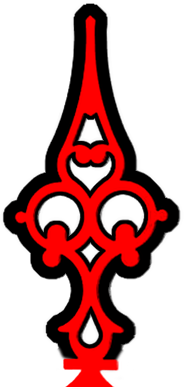
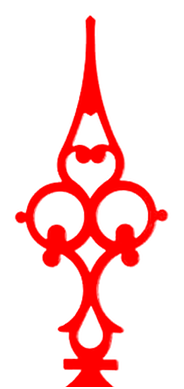
hour_minute_overlap, seems to be working

Changed region(s): [[0.0, 0.0, 1.0, 0.9254]]

diff --git a/config_watch.py b/config_watch.py
@@ -136,37 +136,37 @@ watches = {
 #
 
 hands = {
-    'a' : [('hour', ('a_hour_hand.png', 't', False, (90, 410), 0.12), None),
-           ('minute', ('a_minute_hand.png', 't', True, (49, 565), 0.12), None),
-           ('second', ('a_second_hand.png', 2, False, (37, 37), 0.12),
+    'a' : [('hour', ('a_hour_hand', 't', False, (90, 410), 0.12), None),
+           ('minute', ('a_minute_hand', 't', True, (49, 565), 0.12), None),
+           ('second', ('a_second_hand', 2, False, (37, 37), 0.12),
             [(2, [(0, -5), (0, -70)])]),
            ],
-    'b' : [('hour', ('b_hour_hand.png', 't', False, (33, 211), 0.27), None),
-           ('minute', ('b_minute_hand.png', 't', False, (24, 292), 0.27), None),
-           ('second', ('b_second_hand.png', 2, False, (32, 21), 0.27),
+    'b' : [('hour', ('b_hour_hand', 't', False, (33, 211), 0.27), None),
+           ('minute', ('b_minute_hand', 't', False, (24, 292), 0.27), None),
+           ('second', ('b_second_hand', 2, False, (32, 21), 0.27),
             [(2, [(0, -5), (0, -75)]),
              ]),
            ],
-    'c' : [('hour', ('c_hour_hand.png', 't%', False, (59, 434), 0.14), None),
-           ('minute', ('c_minute_hand.png', 't%', False, (38, 584), 0.14), None),
-           ('second', ('c_chrono1_hand.png', 2, False, (32, -27), 0.14),
+    'c' : [('hour', ('c_hour_hand', 't%', False, (59, 434), 0.14), None),
+           ('minute', ('c_minute_hand', 't%', False, (38, 584), 0.14), None),
+           ('second', ('c_chrono1_hand', 2, False, (32, -27), 0.14),
             [(2, [(0, -2), (0, -26)]),
              ]),
-           ('chrono_minute', ('c_chrono2_hand.png', 2, False, (37, 195), 0.14), None),
-           ('chrono_second', ('c_second_hand.png', 1, False, (41, -29), 0.14),
+           ('chrono_minute', ('c_chrono2_hand', 2, False, (37, 195), 0.14), None),
+           ('chrono_second', ('c_second_hand', 1, False, (41, -29), 0.14),
             [(1, [(0, -4), (0, -88)]),
              ]),
-           ('chrono_tenth', ('c_chrono2_hand.png', 2, False, (37, 195), 0.14), None),
+           ('chrono_tenth', ('c_chrono2_hand', 2, False, (37, 195), 0.14), None),
            ],
-    'd' : [('hour', ('d_hour_hand.png', 't', False, (24, 193), 0.24), None),
-           ('minute', ('d_minute_hand.png', 't', False, (27, 267), 0.24), None),
-           ('second', ('d_second_hand.png', 1, False, (14, -8), 0.24),
+    'd' : [('hour', ('d_hour_hand', 't', False, (24, 193), 0.24), None),
+           ('minute', ('d_minute_hand', 't', False, (27, 267), 0.24), None),
+           ('second', ('d_second_hand', 1, False, (14, -8), 0.24),
             [(1, [(0, -3), (0, -64)]),
              ]),
            ],
-    'e' : [('hour', ('e_hour_hand.png', 't%', False, (28, 99), 0.53), None),
-           ('minute', ('e_minute_hand.png', 't%', False, (22, 142), 0.53), None),
-           ('second', ('e_second_hand.png', 't%', False, (18, 269), 0.24), None),
+    'e' : [('hour', ('e_hour_hand', 't%', False, (28, 99), 0.53), None),
+           ('minute', ('e_minute_hand', 't%', False, (22, 142), 0.53), None),
+           ('second', ('e_second_hand', 't%', False, (18, 269), 0.24), None),
            ],
     }
 
@@ -348,6 +348,8 @@ thresholdMask = [0] + [255] * 255
 threshold1Bit = [0] * 128 + [255] * 128
 threshold2Bit = [0] * 64 + [85] * 64 + [170] * 64 + [255] * 64
 
+trivialImage = PIL.Image.new('L', (1, 1), 255)
+
 # Attempt to determine the directory in which we're operating.
 rootDir = os.path.dirname(__file__) or '.'
 resourcesDir = os.path.join(rootDir, 'resources')
@@ -528,7 +530,7 @@ def getResourceCacheSize(hand):
 def getMaskResourceCacheSize(hand):
     return resourceCacheSize.get(hand, [0, 0])[1]
 
-def makeBitmapHands(generatedTable, generatedDefs, useRle, hand, sourceFilename, colorMode, asymmetric, pivot, scale):
+def makeBitmapHands(generatedTable, generatedDefs, useRle, hand, sourceBasename, colorMode, asymmetric, pivot, scale):
     resourceStr = ''
     maskResourceStr = ''
 
@@ -537,16 +539,6 @@ def makeBitmapHands(generatedTable, generatedDefs, useRle, hand, sourceFilename,
       "name": "%(defName)s",
       "file": "%(targetFilename)s",
       "type": "%(ptype)s"
-    },"""
-
-    maskResourceEntry = """
-    {
-      "name": "%(defName)s",
-      "file": "%(targetFilename)s",
-      "type": "%(ptype)s",
-      "targetPlatforms": [
-        "aplite"
-      ]
     },"""
 
     handLookupEntry = """  { %(cx)s, %(cy)s },  // %(symbolName)s"""
@@ -558,11 +550,10 @@ def makeBitmapHands(generatedTable, generatedDefs, useRle, hand, sourceFilename,
 
     paintChannel, useTransparency, dither = parseColorMode(colorMode)
 
-    sourcePathname = '%s/clock_hands/%s' % (resourcesDir, sourceFilename)
+    sourcePathname = '%s/clock_hands/%s.png' % (resourcesDir, sourceBasename)
     source = PIL.Image.open(sourcePathname)
 
-    basename, ext = os.path.splitext(sourcePathname)
-    source1Pathname = basename + '~bw' + ext
+    source1Pathname = '%s/clock_hands/%s~bw.png' % (resourcesDir, sourceBasename)
     if os.path.exists(source1Pathname):
         # If there's an explicit ~bw source file, use it for the 1-bit
         # version.
@@ -577,8 +568,8 @@ def makeBitmapHands(generatedTable, generatedDefs, useRle, hand, sourceFilename,
     r, g, b, source1Mask = source1.convert('RGBA').split()
     source1 = PIL.Image.merge('RGB', [r, g, b])
 
-    # Ensure that the source image is black anywhere the
-    # mask is black.
+    # Ensure that the source image is black anywhere its alpha channel
+    # is black.
     black = PIL.Image.new('L', source.size, 0)
     r, g, b = source.split()
     mask = sourceMask.point(thresholdMask)
@@ -595,6 +586,21 @@ def makeBitmapHands(generatedTable, generatedDefs, useRle, hand, sourceFilename,
     b = PIL.Image.composite(b, black, mask)
     source1 = PIL.Image.merge('RGB', [r, g, b])
 
+    # Now check for an explicit mask image.  In the basalt case, an
+    # explicit (separate) mask image is maintained in addition to the
+    # implicit (alpha channel) mask above.
+    sourceMaskPathname = '%s/clock_hands/%s_mask.png' % (resourcesDir, sourceBasename)
+    sourceMaskExplicit = None
+    if os.path.exists(sourceMaskPathname):
+        sourceMaskExplicit = PIL.Image.open(sourceMaskPathname).convert('RGBA')
+
+    # In the aplite case, we don't need to make a distinction between
+    # the explicit and implicit masks.  An explicit mask completely
+    # replaces the implicit mask.
+    source1MaskPathname = '%s/clock_hands/%s_mask~bw.png' % (resourcesDir, sourceBasename)
+    if os.path.exists(source1MaskPathname):
+        source1Mask = PIL.Image.open(source1MaskPathname).convert('L')
+
     # Center the source image on its pivot, and pad it with black.
     border = (pivot[0], pivot[1], source.size[0] - pivot[0], source.size[1] - pivot[1])
     size = (max(border[0], border[2]) * 2, max(border[1], border[3]) * 2)
@@ -608,6 +614,10 @@ def makeBitmapHands(generatedTable, generatedDefs, useRle, hand, sourceFilename,
     largeMask.paste(sourceMask, (center[0] - pivot[0], center[1] - pivot[1]))
     large1Mask = PIL.Image.new('L', size, 0)
     large1Mask.paste(source1Mask, (center[0] - pivot[0], center[1] - pivot[1]))
+
+    if sourceMaskExplicit:
+        largeMaskExplicit = PIL.Image.new('RGBA', size, (0, 0, 0, 0))
+        largeMaskExplicit.paste(sourceMaskExplicit, (center[0] - pivot[0], center[1] - pivot[1]))
 
     numStepsHand = getNumSteps(hand)
     for i in range(numStepsHand):
@@ -712,11 +722,21 @@ def makeBitmapHands(generatedTable, generatedDefs, useRle, hand, sourceFilename,
             # It's important to take the crop from the alpha mask, not
             # from the color.
             cropbox = pm2.getbbox()
+            p1 = p1.crop(cropbox)
+            p2 = p2.crop(cropbox)
             pm1 = pm1.crop(cropbox)
             pm2 = pm2.crop(cropbox)
 
-            p1 = p1.crop(cropbox)
-            p2 = p2.crop(cropbox)
+            if sourceMaskExplicit:
+                pme = largeMaskExplicit.rotate(-angle, PIL.Image.BICUBIC, True)
+                pme = pme.resize(scaledSize, PIL.Image.ANTIALIAS)
+                r, g, b, a = pme.split()
+                r = r.point(threshold2Bit).convert('L')
+                g = g.point(threshold2Bit).convert('L')
+                b = b.point(threshold2Bit).convert('L')
+                a = a.point(threshold2Bit).convert('L')
+                pme2 = PIL.Image.merge('RGBA', [r, g, b, a])
+                pme2 = pme2.crop(cropbox)
 
             if not useTransparency:
                 # Force the foreground pixels to the appropriate color
@@ -753,6 +773,10 @@ def makeBitmapHands(generatedTable, generatedDefs, useRle, hand, sourceFilename,
                 pt = PIL.Image.new('L', (w, pm2.size[1]), 0)
                 pt.paste(pm2, (0, 0))
                 pm2 = pt
+                if sourceMaskExplicit:
+                    pt = PIL.Image.new('RGBA', (w, pme2.size[1]), (0, 0, 0, 0))
+                    pt.paste(pme2, (0, 0))
+                    pme2 = pt
 
             # In the Basalt case, apply the mask as the alpha channel.
             r, g, b = p2.split()
@@ -763,16 +787,29 @@ def makeBitmapHands(generatedTable, generatedDefs, useRle, hand, sourceFilename,
             p2 = p2.convert("P", palette = PIL.Image.ADAPTIVE, colors = 16)
 
             if not useTransparency:
-                # In the Aplite non-transparency case, the mask
-                # becomes the image itself.
+                # In the non-transparency case, the aplite mask is the
+                # aplite image we actually write out.
                 p1 = pm1
             else:
-                # In the Aplite transparency case, we need to load the mask
+                # In the transparency case, we need to write the mask
                 # image separately.
                 targetMaskFilename = 'build/flat_%s_%s_%s_mask.png' % (handStyle, hand, i)
-                pm1.save('%s/%s' % (resourcesDir, targetMaskFilename))
+                targetMask1Filename = 'build/flat_%s_%s_%s_mask~bw.png' % (handStyle, hand, i)
+                if sourceMaskExplicit:
+                    # An explicit basalt mask.
+                    pme2 = pme2.convert("P", palette = PIL.Image.ADAPTIVE, colors = 16)
+                    pme2.save('%s/%s' % (resourcesDir, targetMaskFilename))
+                else:
+                    # With only an implicit basalt mask, we won't be
+                    # using the mask image in basalt, so save a
+                    # trivial image.
+                    trivialImage.save('%s/%s' % (resourcesDir, targetMaskFilename))
+
+                # Save the aplite mask.
+                pm1.save('%s/%s' % (resourcesDir, targetMask1Filename))
+
                 rleFilename, ptype = make_rle(targetMaskFilename, useRle = useRle)
-                maskResourceStr += maskResourceEntry % {
+                maskResourceStr += resourceEntry % {
                     'defName' : symbolMaskName,
                     'targetFilename' : rleFilename,
                     'ptype' : ptype,
@@ -832,7 +869,7 @@ def makeHands(generatedTable, generatedDefs):
 
     handDefEntry = """struct HandDef %(hand)s_hand_def = {
     NUM_STEPS_%(handUpper)s,
-    %(resourceId)s, APLITE_RESOURCE(%(resourceMaskId)s),
+    %(resourceId)s, %(resourceMaskId)s,
     %(placeX)s, %(placeY)s,
     %(useRle)s,
     %(bitmapCenters)s,

diff --git a/src/wright.c b/src/wright.c
@@ -512,8 +512,8 @@ void draw_vector_hand(struct HandCache *hand_cache, struct HandDef *hand_def, in
 
 // Clears the mask given hand on the face, using the bitmap
 // structures, if the mask is in use.  This must be called before
-// draw_bitmap_hand().
-void draw_bitmap_hand_mask(struct HandCache *hand_cache, struct ResourceCache *resource_cache, size_t resource_cache_size, struct HandDef *hand_def, int hand_index, GContext *ctx) {
+// draw_bitmap_hand_fg().
+void draw_bitmap_hand_mask(struct HandCache *hand_cache, struct ResourceCache *resource_cache, size_t resource_cache_size, struct HandDef *hand_def, int hand_index, bool no_basalt_mask, GContext *ctx) {
   struct BitmapHandTableRow *hand = &hand_def->bitmap_table[hand_index];
   int bitmap_index = hand->bitmap_index;
   struct BitmapHandCenterRow *lookup = &hand_def->bitmap_centers[bitmap_index];
@@ -524,10 +524,10 @@ void draw_bitmap_hand_mask(struct HandCache *hand_cache, struct ResourceCache *r
 #ifdef PBL_PLATFORM_APLITE
   if (hand_def->resource_id == hand_def->resource_mask_id)
 #else
-  if (true)  // On Basalt, we always draw without the mask.
+  if (no_basalt_mask || hand_def->resource_id == hand_def->resource_mask_id)
 #endif  // PBL_PLATFORM_APLITE
   {
-    // Do nothing here.
+    // The draw-without-a-mask case.  Do nothing here.
   } else {
     // The hand has a mask, so use it to draw the hand opaquely.
     if (hand_cache->image.bitmap == NULL) {
@@ -543,6 +543,9 @@ void draw_bitmap_hand_mask(struct HandCache *hand_cache, struct ResourceCache *r
 	trigger_memory_panic(__LINE__);
         return;
       }
+      remap_colors_clock(&hand_cache->image);
+      remap_colors_clock(&hand_cache->mask);
+
       hand_cache->cx = lookup->cx;
       hand_cache->cy = lookup->cy;
     
@@ -572,18 +575,17 @@ void draw_bitmap_hand_mask(struct HandCache *hand_cache, struct ResourceCache *r
 
 // Draws a given hand on the face, using the bitmap structures.  You
 // must have already called draw_bitmap_hand_mask().
-void draw_bitmap_hand(struct HandCache *hand_cache, struct ResourceCache *resource_cache, size_t resource_cache_size, struct HandDef *hand_def, int hand_index, GContext *ctx) {
+void draw_bitmap_hand_fg(struct HandCache *hand_cache, struct ResourceCache *resource_cache, size_t resource_cache_size, struct HandDef *hand_def, int hand_index, bool no_basalt_mask, GContext *ctx) {
   struct BitmapHandTableRow *hand = &hand_def->bitmap_table[hand_index];
   int bitmap_index = hand->bitmap_index;
   struct BitmapHandCenterRow *lookup = &hand_def->bitmap_centers[bitmap_index];
 
   int hand_resource_id = hand_def->resource_id + bitmap_index;
-  int hand_resource_mask_id = hand_def->resource_mask_id + bitmap_index;
 
 #ifdef PBL_PLATFORM_APLITE
   if (hand_def->resource_id == hand_def->resource_mask_id)
 #else
-  if (true)  // On Basalt, we always draw without the mask.
+  if (no_basalt_mask || hand_def->resource_id == hand_def->resource_mask_id)
 #endif  // PBL_PLATFORM_APLITE
   {
     // The hand does not have a mask.  Draw the hand on top of the scene.
@@ -654,7 +656,7 @@ void draw_bitmap_hand(struct HandCache *hand_cache, struct ResourceCache *resour
 
 // In general, prepares a hand for being drawn.  Specifically, this
 // clears the background behind a hand, if necessary.
-void draw_hand_mask(struct HandCache *hand_cache, struct ResourceCache *resource_cache, size_t resource_cache_size, struct HandDef *hand_def, int hand_index, GContext *ctx) {
+void draw_hand_mask(struct HandCache *hand_cache, struct ResourceCache *resource_cache, size_t resource_cache_size, struct HandDef *hand_def, int hand_index, bool no_basalt_mask, GContext *ctx) {
   if (hand_def->bitmap_table != NULL) {
     if (hand_cache->bitmap_hand_index != hand_index) {
       // Force a new bitmap.
@@ -667,26 +669,26 @@ void draw_hand_mask(struct HandCache *hand_cache, struct ResourceCache *resource
       hand_cache->bitmap_hand_index = hand_index;
     }
 
-    draw_bitmap_hand_mask(hand_cache, resource_cache, resource_cache_size, hand_def, hand_index, ctx);
+    draw_bitmap_hand_mask(hand_cache, resource_cache, resource_cache_size, hand_def, hand_index, no_basalt_mask, ctx);
   }
 }
 
 // Draws a given hand on the face, after draw_hand_mask(), using the
 // vector and/or bitmap structures.  A given hand may be represented
 // by a bitmap or a vector, or a combination of both.
-void draw_hand_fg(struct HandCache *hand_cache, struct ResourceCache *resource_cache, size_t resource_cache_size, struct HandDef *hand_def, int hand_index, GContext *ctx) {
+void draw_hand_fg(struct HandCache *hand_cache, struct ResourceCache *resource_cache, size_t resource_cache_size, struct HandDef *hand_def, int hand_index, bool no_basalt_mask, GContext *ctx) {
   if (hand_def->vector_hand != NULL) {
     draw_vector_hand(hand_cache, hand_def, hand_index, ctx);
   }
 
   if (hand_def->bitmap_table != NULL) {
-    draw_bitmap_hand(hand_cache, resource_cache, resource_cache_size, hand_def, hand_index, ctx);
+    draw_bitmap_hand_fg(hand_cache, resource_cache, resource_cache_size, hand_def, hand_index, no_basalt_mask, ctx);
   }
 }
 
 void draw_hand(struct HandCache *hand_cache, struct ResourceCache *resource_cache, size_t resource_cache_size, struct HandDef *hand_def, int hand_index, GContext *ctx) {
-  draw_hand_mask(hand_cache, resource_cache, resource_cache_size, hand_def, hand_index, ctx);
-  draw_hand_fg(hand_cache, resource_cache, resource_cache_size, hand_def, hand_index, ctx);
+  draw_hand_mask(hand_cache, resource_cache, resource_cache_size, hand_def, hand_index, true, ctx);
+  draw_hand_fg(hand_cache, resource_cache, resource_cache_size, hand_def, hand_index, true, ctx);
 }
 
 // Applies the appropriate Basalt color-remapping according to the
@@ -767,11 +769,11 @@ void hour_minute_layer_update_callback(Layer *me, GContext *ctx) {
 #ifdef HOUR_MINUTE_OVERLAP
   // Draw the hour and minute hands overlapping, so they share a
   // common mask.
-  draw_hand_mask(&hour_cache, hour_resource_cache, hour_resource_cache_size, &hour_hand_def, current_placement.hour_hand_index, ctx);
-  draw_hand_mask(&minute_cache, minute_resource_cache, minute_resource_cache_size, &minute_hand_def, current_placement.minute_hand_index, ctx);
+  draw_hand_mask(&hour_cache, hour_resource_cache, hour_resource_cache_size, &hour_hand_def, current_placement.hour_hand_index, false, ctx);
+  draw_hand_mask(&minute_cache, minute_resource_cache, minute_resource_cache_size, &minute_hand_def, current_placement.minute_hand_index, false, ctx);
 
-  draw_hand_fg(&hour_cache, hour_resource_cache, hour_resource_cache_size, &hour_hand_def, current_placement.hour_hand_index, ctx);
-  draw_hand_fg(&minute_cache, minute_resource_cache, minute_resource_cache_size, &minute_hand_def, current_placement.minute_hand_index, ctx);
+  draw_hand_fg(&hour_cache, hour_resource_cache, hour_resource_cache_size, &hour_hand_def, current_placement.hour_hand_index, false, ctx);
+  draw_hand_fg(&minute_cache, minute_resource_cache, minute_resource_cache_size, &minute_hand_def, current_placement.minute_hand_index, false, ctx);
 
 #else  //  HOUR_MINUTE_OVERLAP
 

diff --git a/src/wright.h b/src/wright.h
@@ -96,8 +96,8 @@ void update_hands(struct tm *time);
 void hand_cache_init(struct HandCache *hand_cache);
 void hand_cache_destroy(struct HandCache *hand_cache);
 void reset_tick_timer();
-void draw_hand_mask(struct HandCache *hand_cache, struct ResourceCache *resource_cache, size_t resource_cache_size, struct HandDef *hand_def, int hand_index, GContext *ctx);
-void draw_hand_fg(struct HandCache *hand_cache, struct ResourceCache *resource_cache, size_t resource_cache_size, struct HandDef *hand_def, int hand_index, GContext *ctx);
+void draw_hand_mask(struct HandCache *hand_cache, struct ResourceCache *resource_cache, size_t resource_cache_size, struct HandDef *hand_def, int hand_index, bool no_basalt_mask, GContext *ctx);
+void draw_hand_fg(struct HandCache *hand_cache, struct ResourceCache *resource_cache, size_t resource_cache_size, struct HandDef *hand_def, int hand_index, bool no_basalt_mask, GContext *ctx);
 void draw_hand(struct HandCache *hand_cache, struct ResourceCache *resource_cache, size_t resource_cache_size, struct HandDef *hand_def, int hand_index, GContext *ctx);
 void remap_colors_clock(BitmapWithData *bwd);
 
